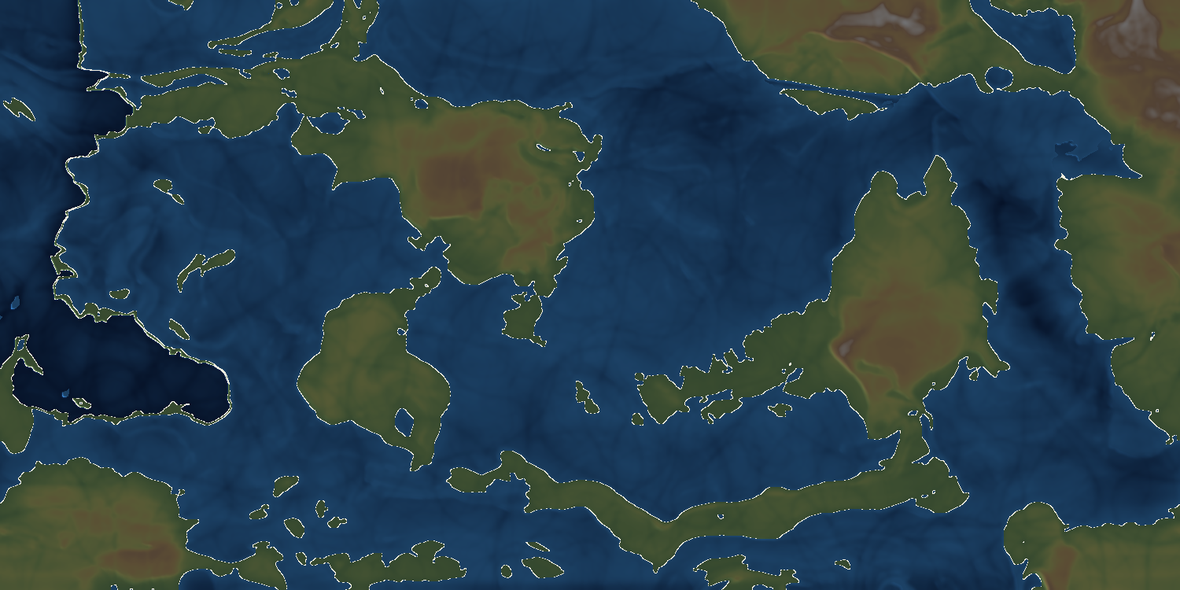
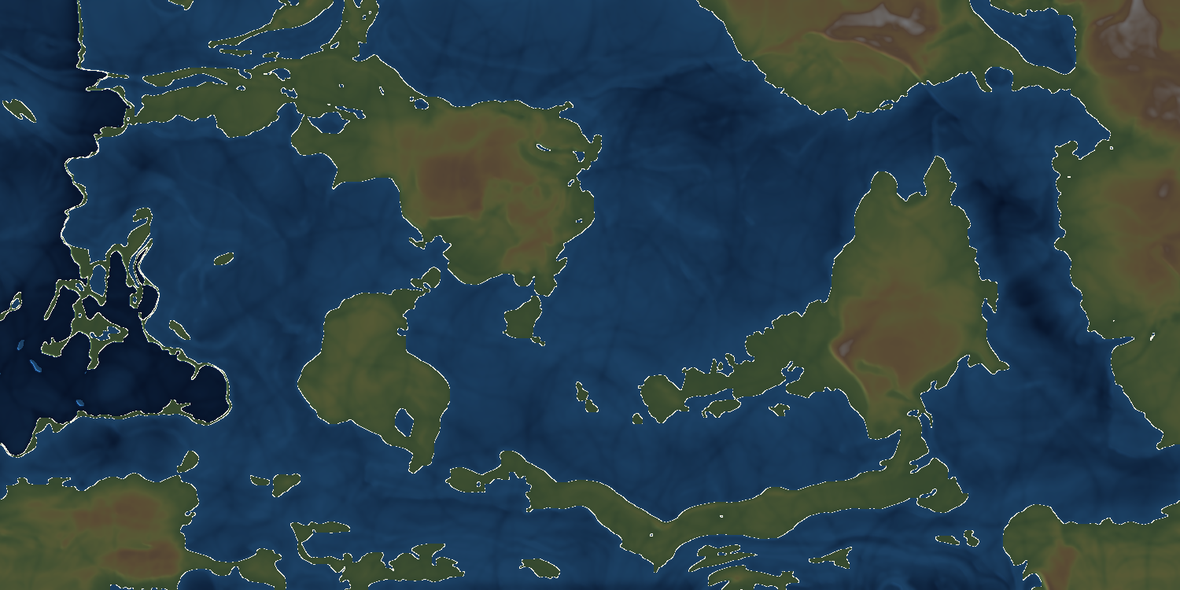
Disable generated Corridor; move the Marreni south
The sunder_pair stage is off by default. It cut along a straight line with a
wobble, so wherever the wobble left the channel shallow a strip of land
survived - producing a sharp artificial notch, an inexplicable land bridge,
then open ocean. A formation with no geological reason to exist reads exactly
that way. Terrain can be generated; significant places cannot. The Almani
Corridor is hand-authored at stage three, as planned.

The impact now lands at roughly 46 degrees south, so the Marreni Sea is
southern as its name has always said. The pole shift is applied before the
strike, so this is its final latitude.

Claude-Session: https://claude.ai/code/session_018RNiR11dzHysuEZosmUT3X

diff --git a/maps/generate_world.py b/maps/generate_world.py
@@ -500,7 +500,7 @@ def build(seed, land_fraction, warp, rift, impact_lat, impact_lon,
           platform=2600.0, platform_scale=0.075, separation=1.0,
           lost_continent=True, lost_rank=1, rotation=(121.0, 47.0, 29.0),
           hotspots=6, mountains=1.0, fractures=7, fracture_width=0.020,
-          seas=4, sunder=True, sunder_width=0.0045,
+          seas=4, sunder=False, sunder_width=0.0045,
           crazing=1.0, crazing_scales=5, crazing_sharp=14.0):
     rng = np.random.default_rng(seed)
     z = load_earth()
@@ -556,7 +556,8 @@ def main():
     p.add_argument("--rift", type=float, default=0.6)
     p.add_argument("--platform", type=float, default=2600.0)
     p.add_argument("--platform-scale", type=float, default=0.075)
-    p.add_argument("--impact-lat", type=float, default=8.0)
+    p.add_argument("--impact-lat", type=float, default=-46.0,
+                   help="the Marreni Sea is southern, per canon")
     p.add_argument("--impact-lon", type=float, default=-150.0)
     p.add_argument("--separation", type=float, default=1.0,
                    help="how decisively continents are split by deep ocean")
@@ -570,7 +571,9 @@ def main():
     p.add_argument("--fractures", type=int, default=7)
     p.add_argument("--fracture-width", type=float, default=0.020)
     p.add_argument("--seas", type=int, default=4)
-    p.add_argument("--no-sunder", action="store_true")
+    p.add_argument("--sunder", action="store_true",
+                   help="cut a continent in two (OFF by default: the Almani "
+                        "Corridor is hand-authored, see maps/README.md)")
     p.add_argument("--sunder-width", type=float, default=0.0045)
     p.add_argument("--crazing", type=float, default=1.0,
                    help="density of drowned saltwater fracture channels")
@@ -585,7 +588,7 @@ def main():
                     a.separation, not a.no_lost_continent, a.lost_rank,
                     tuple(a.rot), a.hotspots, a.mountains,
                     a.fractures, a.fracture_width, a.seas,
-                    not a.no_sunder, a.sunder_width,
+                    a.sunder, a.sunder_width,
                     a.crazing, a.crazing_scales, a.crazing_sharp)
 
     render_colour(z).save(f"{a.out}_seed{a.seed}_colour.png")

diff --git a/maps/crazing_sweep.py b/maps/crazing_sweep.py
@@ -19,12 +19,12 @@ tiles, labels = [], []
 
 for name, craze, sharp, land in VARIANTS:
     z, lost = G.build(44, land_fraction=land, warp=0.038, rift=0.4,
-                      impact_lat=8.0, impact_lon=-150.0,
+                      impact_lat=-46.0, impact_lon=-150.0,
                       platform=3800, platform_scale=0.072, separation=1.0,
                       lost_continent=True, lost_rank=1,
                       rotation=(203.0, 35.0, 55.0), hotspots=6, mountains=1.0,
                       fractures=3, fracture_width=0.019, seas=3,
-                      sunder=True, sunder_width=0.0045,
+                      sunder=False, sunder_width=0.0045,
                       crazing=craze, crazing_scales=5, crazing_sharp=sharp)
 
     ld = z >= 0

diff --git a/02-geography/world-structure.md b/02-geography/world-structure.md
@@ -41,7 +41,7 @@ Consequences, all of them useful:
 - **It makes the Corridor a wound rather than a border.** The Doom cut them apart; the strait is the scar; and the world's paramount power sits in it, holding both edges of the tear together. Cevine as the country that *is* the seam.
 - **The crossing is short.** Which is why Cevine's villages could trade across it from the very beginning, and why it became the cradle. A wide ocean would have prevented all of it.
 
-> Generated by the `sunder_pair` stage: a channel cut through one landmass, widening along its length so the halves splay. See `maps/generate_world.py`.
+> **The Corridor is hand-drawn, not generated.** An automated attempt (the `sunder_pair` stage) produced a straight notch, a meaningless land bridge and then open ocean — a formation with no geological reason to exist. Significant places have to be authored. The stage remains in the code but is disabled. See `maps/README.md`.
 
 ## Cevine — the cradle and the hinge
 
@@ -67,7 +67,9 @@ Ouspré was the only port unfortified against sevaravirus. Roughly a third of Pa
 
 ## The Marreni Sea of the South — the impact basin
 
-**The Marreni is the crater.** The strike that began the Doom landed here, and the sea fills the wound.
+**The Marreni is the crater**, and it lies in the **southern** part of the world, as its name has said all along. The strike that began the Doom landed here, and the sea fills the wound.
+
+*(Generation: the impact is placed at roughly 46° S. Because the pole shift is applied before the strike, that is its final latitude on the finished map.)*
 
 This retro-fits the manuscript exactly. From the text: *"the aquamarine eyes, as deep as the Marreni sea of the South, where sailors would lose their way and poets would find their muses."*
 

diff --git a/maps/README.md b/maps/README.md
@@ -66,6 +66,16 @@ The generator is the **base**, not the answer. The full route:
 
 Do not skip stage 3 or fight it. The generator exists to give you a plausible planet to *edit*, so that the places the story needs sit inside a world that looks like it grew rather than one that was arranged.
 
+### Why the Corridor is not generated
+
+There is a `sunder_pair` stage that cuts a continent in two. **It is off by default and should stay off.**
+
+It was an attempt to generate the Corridor automatically, and it fails in a specific, instructive way: it cuts along a straight line with a wobble, so wherever the wobble leaves the channel shallow, a strip of land survives. The result is a sharp artificial notch, then an inexplicable land bridge, then open ocean — a formation with no geological reason to exist, which is exactly how it reads.
+
+The lesson generalises. Terrain can be generated; *significant places* cannot. A strait that is the throat of the world, that one power holds both shores of, that was a rift through a single continent — that has to be drawn by someone who knows why it matters. Draw it on the heightmap by hand before importing, or carve it in Azgaar's editor after.
+
+Enable with `--sunder` only to experiment.
+
 ## What the map has to accommodate
 
 Once a candidate is chosen, these are the fixed requirements the geography must satisfy. Manual editing follows — the generator produces the canvas, not the answer.
